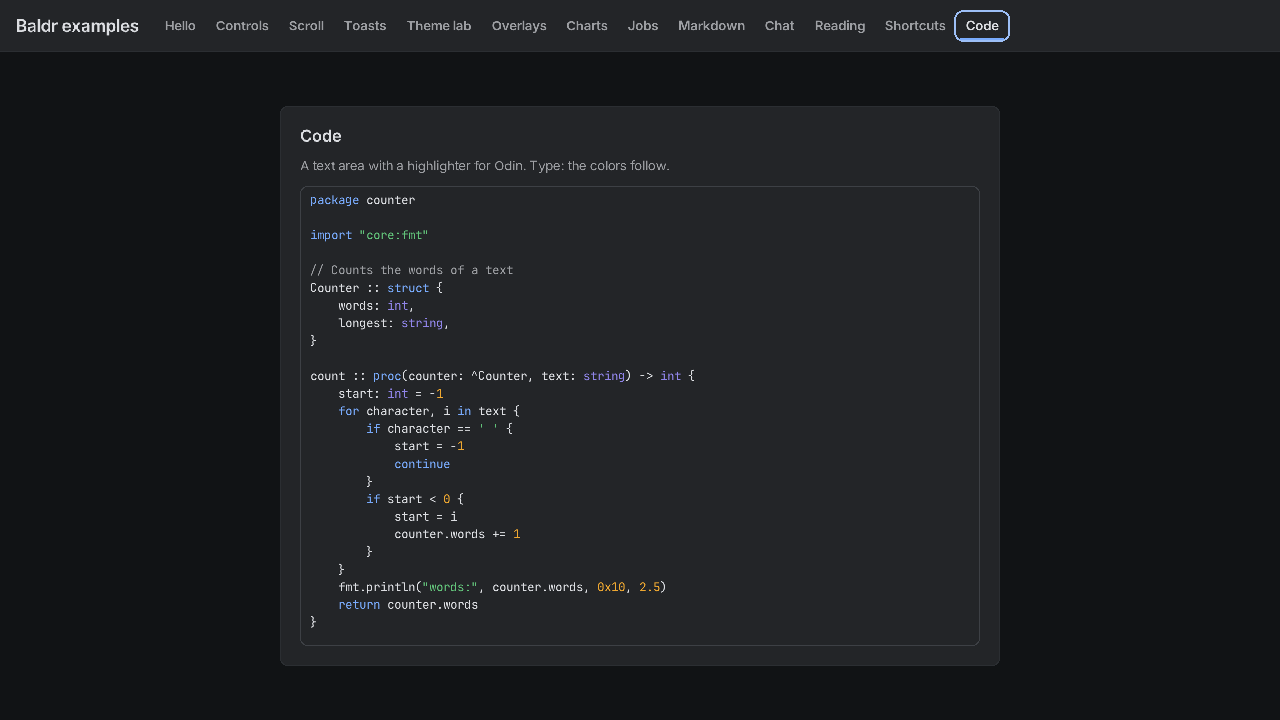
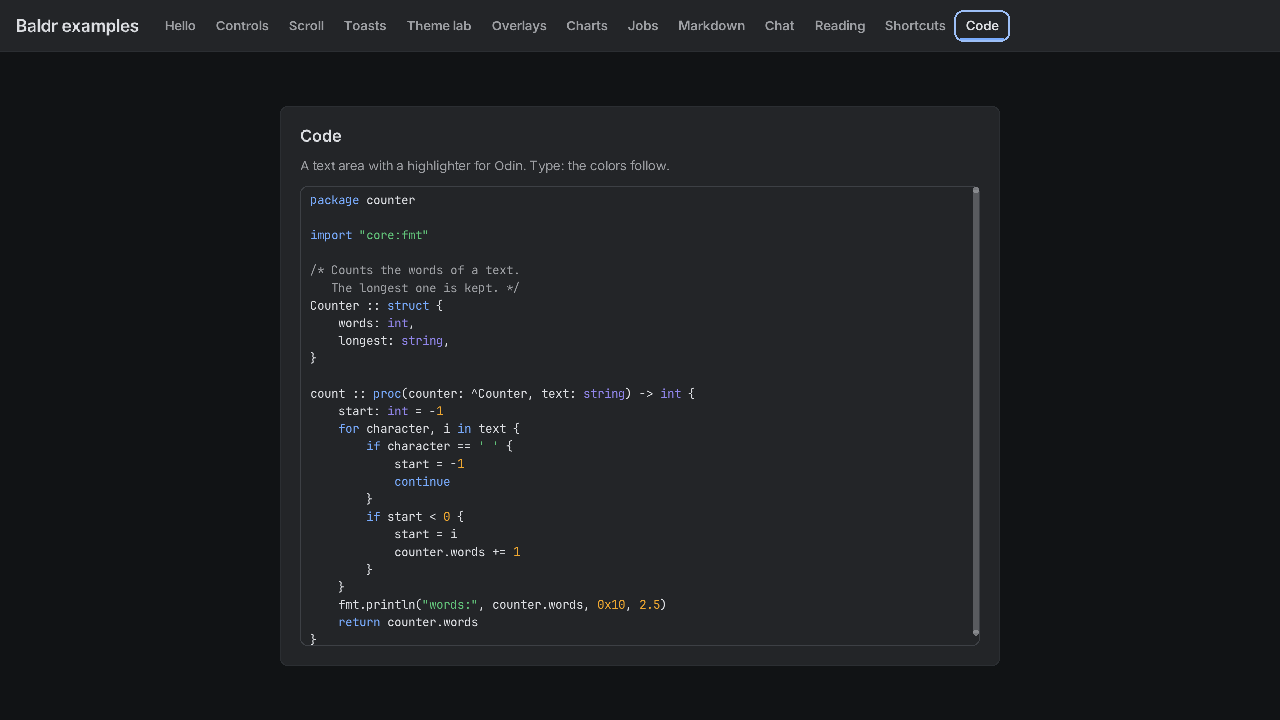
ui: block comments and raw strings in the highlighter, a state per row
A highlighter gets a state number at the start of a row and leaves it at its end. The text area
runs the highlighter over all rows once when the text, the rows or the highlighter changed and
keeps the state of every row in its row cache, so a frame only asks for the rows in view.
HighlightCode uses it for block comments (nested in Odin, not in C) and raw strings.

Claude-Session: https://claude.ai/code/session_01VmEee8L8hufaEg5kRznT4c

Changed region(s): [[0.25, 0.5194, 0.5312, 0.8861], [0.75, 0.275, 0.7812, 0.8861], [0.25, 0.3972, 0.375, 0.4889]]

diff --git a/CLAUDE.md b/CLAUDE.md
@@ -98,7 +98,7 @@ Stale build outputs in a library folder (`demo.exe`, `*.pdb`, `log.txt`) are git
 
 ## ui library layout
 - Immediate mode ui, layout ported from Clay (MIT, credited in README). Core files: `context.odin` (Storage, UiInit/Begin/End, widget state in a `Static_Handle_Map` of `UI_STATES`), `layout.odin` (Clay port: sizing, floating, clip, text wrap), `widgets.odin` (`Ui*` widgets, containers are `if UiPanel(...) {}` blocks through `@(deferred_in)`), `widgets_more.odin` (collapsing/tree, radio, selectable, tabs, drag, inputs, plots, color, menus, modal, titled window), `style.odin` (`StyleKind`, `DrawInfo` with rect + value 0..1 + name + actual, `Style` table of user procs), `render.odin` (`UiRender` only calls the style procs, so the ui shares the batch of the frame), `nav.odin` (focus by direction and the default actions of Godot: `ui.Action` ACCEPT/CANCEL/FOCUS_NEXT/UP../HOME/END/PAGE_*, set in `Input.actions` by the glue and applied in `UiBegin`; `UiNavigate`, `UiActivate`, `UiCancelled`, `UiNavLink/UiNavBlock` overrides, scroll into view, input agnostic), `rounded.odin` (radius as part of the shortest side, polygon into a caller buffer), `resize.odin` (`UiSplit` / `UiSplitFirst` / `UiSplitSecond`: two sections and the handle between them, side by side or stacked, the proportion kept by the split; `UiWindowResizable`: a window resized by its edges and corners that keeps its own position and size; `HitKind.NO_FOCUS`, `Clip.cut`, `Decl.absolute`: a child out of the flow at an offset, not a root). Node graph: `graph.odin` (model: `Graph` with nodes, ports, links, zip ties in handle maps, rules, events with user pointers, `GraphOrder`, `GraphCompile` buffer plan), `graph_cable.odin` (routes, bounds, distance, crossings, tie geometry), `graph_style.odin` (`GraphStyle`: routing/bounds/distance/draw procs), `tree.odin` (`Tree` model + `UiTree` over the virtual list), `inspector.odin` (`UiInspector`: element tree, usage, picking), `virtual.odin` (`UiVirtual` list and `UiTable`: only the rows in view are declared), `timeline.odin` + `timeline_widgets.odin` + `timeline_style.odin` (`UiTimeline`: tracks and clips model, rules, events, ruler, playhead; style procs in `default_style/timeline.odin`), `timeline_curve.odin` (shapes of the curve between automation points), `timeline_automation.odin` (plan + block renderer for the audio thread), `timeline_points_edit.odin` (flip, mirror, rotate, repeat, stretch lives in timeline.odin), `timeline_history.odin` (undo and redo snapshots), `measure.odin` (cache of text sizes: every measure goes through `measureText`), `textarea.odin` (`UiTextArea`: rows, wrap, vertical movement), `accessibility.odin` (`UiAccessNodes`/`UiAccessDescribe`: the last frame as roles, names and states), `widgets_combo.odin` (`UiCombo`: a dropdown with a search field), `colorpicker.odin` (`UiColorPicker`, HSV and hex helpers; drawn by `default_style/color.odin`), `textundo.odin` (undo and redo of the focused text field and area), `textedit.odin` (selection, words, clipboard of the text field; `Input.modifiers`, actions COPY/CUT/PASTE/SELECT_ALL), `Decl.zoom` + `Style.zoom` (a container zoomed around its corner, `Painter.offset`), UI scale: `Painter.scale` in `default_style` (layout and styles in logical units, the glues scale drawing and divide the pointer; `InputPoll(scale)`), `widgets_audio.odin` (`UiKnob`, `UiFader`, `UiMeter`; style kinds KNOB/FADER/METER), `dock.odin` (`Dock` layout as plain data, `UiDock`: tabs and splits moved by dragging a tab), `graph_history.odin` (`GraphHistory`: undo and redo snapshots, `graph.serial`), `graph_layout.odin` (`GraphAutoLayout`), `graph_widgets.odin` (`UiGraph`, `UiGraphNode`, `UiGraphPin`, `UiGraphMinimap`, cuts and ties), `default_style/graph.odin`, `graph_test.odin`, `demo_common/demo_graph.odin`.
-- The look follows Baldr (github.com/BuLEEto/Baldr, zlib, credited in `default_style/default_style.odin` and the README; no code of it): `THEME_DARK` / `THEME_LIGHT` (the output of `ThemeFromAccent` for Baldr's blue: a test keeps the constants equal to the generator; the same pixels as its gallery pictures), `theme_make.odin` (`ThemeFromAccent(color, dark)`: a port of Baldr's `theme_from_seed`, marked as altered as zlib asks; `ColorFromOklch` / `ColorToOklch` / `ColorContrast`; colors that sRGB does not have lose chroma, they are not clamped; tests in `theme_make_test.odin`: `odin test ui/default_style`), `Face` (REGULAR, STRONG, ITALIC, MONO: the style sets `painter.face`, the glue draws Inter / JetBrains Mono), `painter.draw_icon` (Lucide through the `icons` library, `ui_default.LucideIcon(.SAVE)` is a `ui.Icon`; numbers from 0x1000), button variants by tag ("primary", "secondary", "outline", "ghost", "danger"), "thin" sliders and progress bars, texts by tag ("title", "dim", "mono": tags reach text elements, and a text is measured with its tags: `ctx.measure_tags` / `UiMeasureHasTag`, the measure cache keys on them, `ui_default.Measure` picks the face with `TagFace`), theme areas (`ThemeAreaSet(&painter, n, theme)` + `UiTagged(ctx, ThemeAreaTag(n))`: a part drawn in its own theme, through `Style.before_draw`, which `UiRender` calls before every draw command), `RingRounded` (focus rings are outlines), `Shadow`, `StateColor` / `StateWash`, `RowBox` (rows are selected in the soft accent so composed rows stay readable). `markdown.odin` (`UiMarkdown(ctx, source)`: headings, wrapped paragraphs, nested lists, quotes, fenced code, rules, tables (`MarkdownTableCell`), read block by block every frame with `MarkdownNext`, inline marks stripped by `MarkdownInline` into the frame text; paragraphs, list entries and quotes are rich text; tests in `markdown_test.odin`), `richtext.odin` (`UiRichText(ctx, name, source, scale, max_width)`: a wrapped paragraph with runs of styles from Markdown marks, lines broken by the widget for last frame's width, one text per run tagged "strong"/"italic"/"mono"/"link"; a link is an INTERACTIVE element, `UiRichText` and `UiMarkdown` return `(address, clicked)`; `RichNext` is the reader; tests in `richtext_test.odin`), `highlight.odin` (`TextHighlight` proc + `TextSpan`: `UiTextArea(..., highlight, highlight_user)` declares a text per span of a row, tagged `SYNTAX_*`; `HighlightCode` with a `HighlightLanguage`, `HIGHLIGHT_ODIN`; row by row, no state; colors in `ui_default.SyntaxColor`), `shortcut.odin` (`Chord`, `ChordFormat`, `UiShortcutField(ctx, name, &chord, pressed, key_name)`: listens after a click, takes the next key the program passes, Escape cancels, Backspace clears; drawn as a BUTTON with the tag "outline" / "primary"; tests in `shortcut_test.odin`), `date.odin` (`Date`, `DateWeekday` with Monday 0, `DateDaysInMonth`, `DateAddMonths`; `UiDateField`: a DROPDOWN box with `icon = .CALENDAR` and a popup of `DATE_CELL`s, the shown month kept in `WidgetState.cursor` as a count of months; `UiTimeField`: a `UiCombo` over the times of a day; tests in `date_test.odin`), `chart.odin` (`UiChart` with a caller owned `ChartView`: LINE, AREA, BAR, SCATTER, round axis steps, nearest point under the pointer, a click picks, the navigation walks; the view keeps the slices of the series, so they have to outlive the frame: keep them in the state, the compiler warns about a local array; look in `default_style/chart.odin` with Baldr's color blind safe palette; tests in `chart_test.odin`). `widgets_extra.odin`: `UiSwitch`, `UiBadge` (`Tone`), `UiChip`, `UiTag`, `UiAvatar`, `UiSegmented`, `UiBreadcrumbs`, `UiSpinner`, `UiTitle`, `UiLabelDim`, `UiCard`, `UiInteract`; `UiButton(..., icon = ...)`, `DrawInfo.icon`; their look in `default_style/extra.odin`, tests in `widgets_extra_test.odin`. `DEFAULT_METRICS` did not change (the scripts of the demos click at numbers of the layout); a text size is the height of its line box, so 16 is Inter at 13 px per em, the label size of Baldr.
+- The look follows Baldr (github.com/BuLEEto/Baldr, zlib, credited in `default_style/default_style.odin` and the README; no code of it): `THEME_DARK` / `THEME_LIGHT` (the output of `ThemeFromAccent` for Baldr's blue: a test keeps the constants equal to the generator; the same pixels as its gallery pictures), `theme_make.odin` (`ThemeFromAccent(color, dark)`: a port of Baldr's `theme_from_seed`, marked as altered as zlib asks; `ColorFromOklch` / `ColorToOklch` / `ColorContrast`; colors that sRGB does not have lose chroma, they are not clamped; tests in `theme_make_test.odin`: `odin test ui/default_style`), `Face` (REGULAR, STRONG, ITALIC, MONO: the style sets `painter.face`, the glue draws Inter / JetBrains Mono), `painter.draw_icon` (Lucide through the `icons` library, `ui_default.LucideIcon(.SAVE)` is a `ui.Icon`; numbers from 0x1000), button variants by tag ("primary", "secondary", "outline", "ghost", "danger"), "thin" sliders and progress bars, texts by tag ("title", "dim", "mono": tags reach text elements, and a text is measured with its tags: `ctx.measure_tags` / `UiMeasureHasTag`, the measure cache keys on them, `ui_default.Measure` picks the face with `TagFace`), theme areas (`ThemeAreaSet(&painter, n, theme)` + `UiTagged(ctx, ThemeAreaTag(n))`: a part drawn in its own theme, through `Style.before_draw`, which `UiRender` calls before every draw command), `RingRounded` (focus rings are outlines), `Shadow`, `StateColor` / `StateWash`, `RowBox` (rows are selected in the soft accent so composed rows stay readable). `markdown.odin` (`UiMarkdown(ctx, source)`: headings, wrapped paragraphs, nested lists, quotes, fenced code, rules, tables (`MarkdownTableCell`), read block by block every frame with `MarkdownNext`, inline marks stripped by `MarkdownInline` into the frame text; paragraphs, list entries and quotes are rich text; tests in `markdown_test.odin`), `richtext.odin` (`UiRichText(ctx, name, source, scale, max_width)`: a wrapped paragraph with runs of styles from Markdown marks, lines broken by the widget for last frame's width, one text per run tagged "strong"/"italic"/"mono"/"link"; a link is an INTERACTIVE element, `UiRichText` and `UiMarkdown` return `(address, clicked)`; `RichNext` is the reader; tests in `richtext_test.odin`), `highlight.odin` (`TextHighlight` proc + `TextSpan`: `UiTextArea(..., highlight, highlight_user)` declares a text per span of a row, tagged `SYNTAX_*`; `HighlightCode` with a `HighlightLanguage`, `HIGHLIGHT_ODIN`; a `state` number per row carries block comments and raw strings, kept in the row cache of the area (`areaStates`); colors in `ui_default.SyntaxColor`), `shortcut.odin` (`Chord`, `ChordFormat`, `UiShortcutField(ctx, name, &chord, pressed, key_name)`: listens after a click, takes the next key the program passes, Escape cancels, Backspace clears; drawn as a BUTTON with the tag "outline" / "primary"; tests in `shortcut_test.odin`), `date.odin` (`Date`, `DateWeekday` with Monday 0, `DateDaysInMonth`, `DateAddMonths`; `UiDateField`: a DROPDOWN box with `icon = .CALENDAR` and a popup of `DATE_CELL`s, the shown month kept in `WidgetState.cursor` as a count of months; `UiTimeField`: a `UiCombo` over the times of a day; tests in `date_test.odin`), `chart.odin` (`UiChart` with a caller owned `ChartView`: LINE, AREA, BAR, SCATTER, round axis steps, nearest point under the pointer, a click picks, the navigation walks; the view keeps the slices of the series, so they have to outlive the frame: keep them in the state, the compiler warns about a local array; look in `default_style/chart.odin` with Baldr's color blind safe palette; tests in `chart_test.odin`). `widgets_extra.odin`: `UiSwitch`, `UiBadge` (`Tone`), `UiChip`, `UiTag`, `UiAvatar`, `UiSegmented`, `UiBreadcrumbs`, `UiSpinner`, `UiTitle`, `UiLabelDim`, `UiCard`, `UiInteract`; `UiButton(..., icon = ...)`, `DrawInfo.icon`; their look in `default_style/extra.odin`, tests in `widgets_extra_test.odin`. `DEFAULT_METRICS` did not change (the scripts of the demos click at numbers of the layout); a text size is the height of its line box, so 16 is Inter at 13 px per em, the label size of Baldr.
 - `demo_common/demo_examples.odin`: Baldr's 01_hello, 04_controls, 03_scroll, 17_toasts, 02_theme_lab (the theme made from a picked accent) 05_overlays (a `UiMenu` inside of a button tag is drawn as that button and opens its popup under it) 21_charts, 09_jobs, 19_markdown and 32_chat (bubbles: panel tags "bubble" / "mine", `UiRichText(..., max_width)`, `UiScrollSet(c, id, 1e9)` for some frames follows the end) , 33_reading (a page in a theme area), 20_shortcuts and 07_code remade, a tab each (a picture that shows a time or a rate gets fixed numbers from a Check before its Capture: frame times differ between machines) (a toast is a floating element with the tag "popup" and `UiInteract`). An id the script needs from inside a loop or a nested scope is stored while declaring (`state.pick_id = ui.UiId(c, name)`): `UiIdPath` cannot name an element under an `IdFromIndex` parent.
 - `demo_common/demo_gallery.odin`: the first page of Baldr's gallery remade (dark, light, a page of all icons). Its script finds widgets by `ui.UiElementRect` and clicks with `kit.ClickAt(&target)`: use that for a layout that depends on text widths. Fonts in the kit: `kit.FontLoad(ctx, bytes, size, glyph_count, first_glyph)`, with `DEMO_VECTOR_TEXT` a kit font is a face of the kit's text system (`font.ATLAS_FACES` is 8: 0..3 the family, 4..7 for a program).
 - `default_style/` (package `ui_default`: `Painter` + default style), `kit/` (Painter + input over demo_kit, used by the demos: loads the fonts once per backend), `glue_raylib/`, `glue_karl2d/` (Painter + `InputPoll`, `Fonts` + `FontsLoad` + `PainterUseFonts` / `PainterUseVectorFonts`), `demo_common/` (widgets, layout, styles, navigation demos and `demo_imgui`, the layout of Dear ImGui's demo window, with scripts; ImGui is the demo it follows). Scripts click at fixed coordinates computed from the layout (window at (40,40), padding 10, controls 28 high): widths must be `Fixed` so fonts do not move them.

diff --git a/ui/README.md b/ui/README.md
@@ -309,8 +309,9 @@ clips, to markers and to the playhead when they are within `view.snap_pixels` (8
 `highlight.odin`: `ui.UiTextArea(..., highlight = ui.HighlightCode, highlight_user = &ui.HIGHLIGHT_ODIN)` draws the words of every row in view in the colors of what they
 are. A highlighter (`ui.TextHighlight`) cuts a row into `ui.TextSpan`s, each with a tag; the area declares a text per span, placed by the same measure as the caret. The
 default style has the colors of the tags `ui.SYNTAX_KEYWORD`, `_TYPE`, `_STRING`, `_NUMBER`, `_COMMENT` (`ui_default.SyntaxColor`). `HighlightCode` reads languages that
-look like C or Odin by a `HighlightLanguage` (keywords, types, the mark of a line comment); it reads a row on its own, so a comment or a string over several lines is
-only colored on its first, and it is meant for an area without `wrap`. Nothing is kept between frames and nothing is allocated; at most `AREA_SPANS` (96) spans a row.
+look like C or Odin by a `HighlightLanguage` (keywords, types, the marks of comments, the quote of raw strings). What goes over several lines (a block comment, nested
+in Odin, a raw string) is carried from row to row in a `state` number: the area runs the highlighter over all rows once when the text changed and keeps the state of every
+row with its cached rows, so a frame only asks for the rows in view. A string in quotes ends with its row. Nothing is allocated; at most `AREA_SPANS` (96) spans a row.
 
 ## Shortcut field
 `shortcut.odin`: `changed, listening := ui.UiShortcutField(&ctx, name, &chord, pressed, key_name)` is a shortcut that is set by pressing it. A click or the confirm key makes it

diff --git a/ui/TODO.md b/ui/TODO.md
@@ -43,7 +43,7 @@ Tick an item when it is done and verified (tests pass, committed).
 - [x] Rich text: `UiRichText`, used by `UiMarkdown` (strong, italic, code, links)
 - [x] Tables in `UiMarkdown`
 - [x] Colors in a text area (`TextHighlight`, `HighlightCode`) and Baldr's 07_code
-- [ ] Highlighting that knows the lines before a row (block comments, strings over several lines): a state per line start that the area keeps while the text does not change
+- [x] Highlighting that knows the lines before a row (block comments, raw strings): a state per row that the area keeps while the text does not change
 - [x] A shortcut field (`UiShortcutField`, `Chord`) and Baldr's 20_shortcuts
 - [x] A part of the ui in a theme of its own (`ThemeAreaSet`, `Style.before_draw`) and Baldr's 33_reading
 - [x] Links of a rich text can be clicked (`address, clicked := UiRichText(...)`, the same from `UiMarkdown`)
